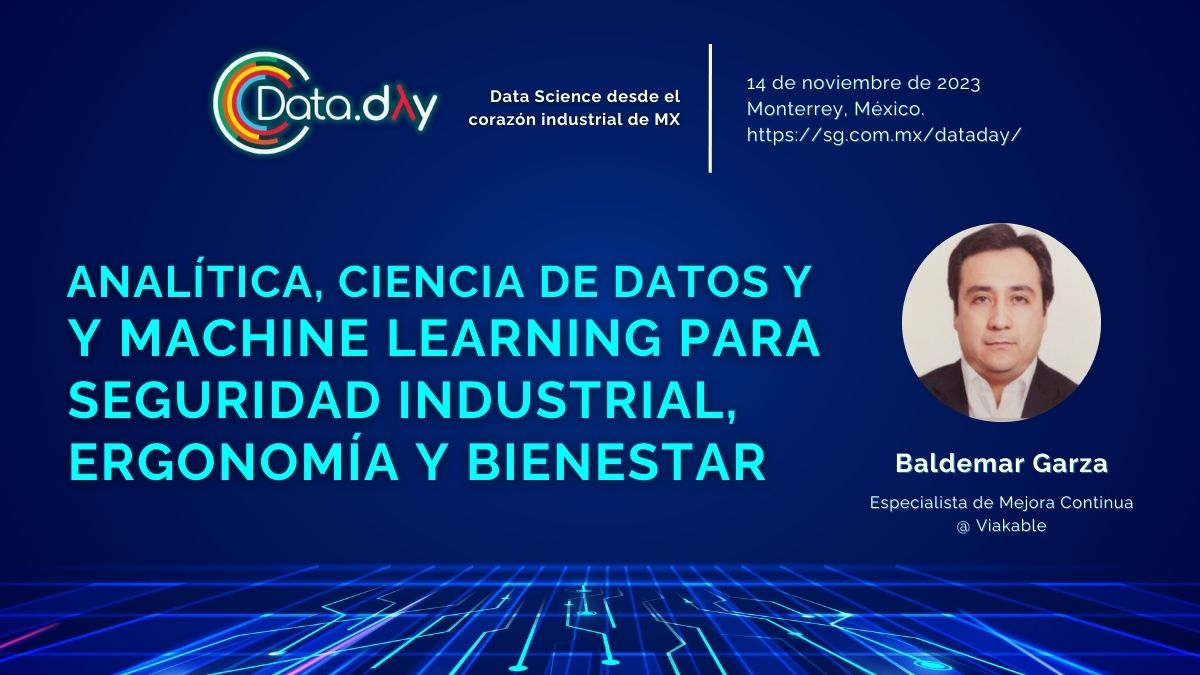
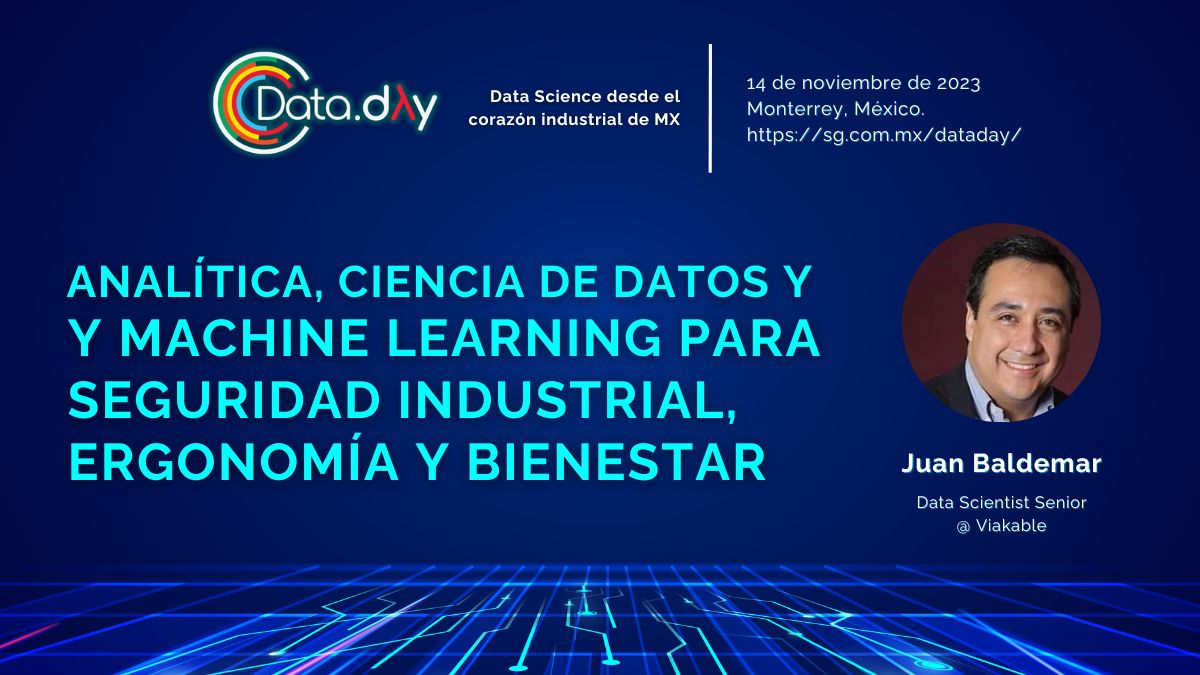
Baldemar

diff --git a/content/speakers/juan-baldemar-garza-villegas/_index.md b/content/speakers/juan-baldemar-garza-villegas/_index.md
@@ -1,15 +1,14 @@
 ---
 title: "Juan Baldemar Garza Villegas"
 images:
- - images/speakers/juan_baldemar.jpg
+ - images/speakers/juan-baldemar-garza.jpg
 date: 2019-09-25
 linkedin: https://www.linkedin.com/in/juan-baldemar-garza-villegas-ph-d-764b3976/
-designation: "Especialista de Mejora Continua en Viakable"
+designation: "Senior Data Scientist en Viakable"
 events:
  - 2023mty
  - 2022
  - 2019mty
 ---
 
-Juan Baldemar cuenta con más de 20 años de experiencia ejecutiva en las áreas de Analítica y Ciencia de Datos, Gestión de Proyectos, Calidad, Ingeniería Industrial, Mejora Continua, Simulación e Innovación. Actualmente es Especialista Sr. de Mejora Continua, Analítica y Ciencia de Datos en Viakable. Adicionalmente, es Profesor e Investigador de Posgrado de la Universidad de Monterrey (UDEM), así como instructor y consultor certificado en Industria 4.0, Ciencia de Datos, IA, Calidad 4.0, People Analytics y Mejora Continua.
- 
+ Juan Baldemar Garza cuenta con más de 22 años de experiencia ejecutiva en las áreas de Analítica y Ciencia de Datos, Gestión de Proyectos, Calidad, Ingeniería Industrial, Mejora Continua, Simulación e Innovación. Actualmente es Data Scientist Senior en Viakable, empresa del Grupo Xignux. Adicionalmente, es Profesor e Investigador de Posgrado de la Universidad de Monterrey (UDEM), así como instructor y consultor certificado en Industria 4.0, Ciencia de Datos, IA, Calidad 4.0, People Analytics y Mejora Continua.

diff --git a/content/speakers/juan-arturo-nolazco/_index.md b/content/speakers/juan-arturo-nolazco/_index.md
@@ -1,13 +1,14 @@
 ---
 title: "Juan Arturo Nolazco"
 date: 2023-10-13T15:31:28-06:00
-images : 
+images: 
  - "images/speakers/juan-arturo-nolazco.jpg"
-designation : ""
+designation: Director Data Science Hub en Tec de Monterrey
 linkedin: https://www.linkedin.com/in/juan-arturo-nolazco-flores-3a08861/
 events: 
  - 2023mty
 
 ---
 
-Dr. Nolazco holds a BSc in Electronic System, and a MSc in Control Engineering from ITESM (Tecnológico de Monterrey), campus Monterrey; and a M.Phil. y Ph.D. from the University de Cambridge, England. Dr. Nolazco is the Director of the Data Science, at the ITESM, Mexico. Dr. Nolazco is member of the Mexican Academy of Computer Science, Mexican Academy of Engineering, Mexican Academy of Science and Mexican Research System. He is also “IEEE Senior Member” and “ACM Senior Member”. Dr. Nolazco is also certified by ABET to evaluate academic programs. 
+El Dr. Nolazco realizó sus estudios de ingeniería en sistemas electrónicos y maestría en ingeniería de control en el Tec de Monterrey, para posteriormente realizar un doctorado por la Universidad de Cambridge. Actualmente es director del Data Science Hub del Tec de Monterrey, y anteriormente fue decano de la Escuela de Ingeniería y Ciencias de la región sur del Tec de Monterrey.
+
